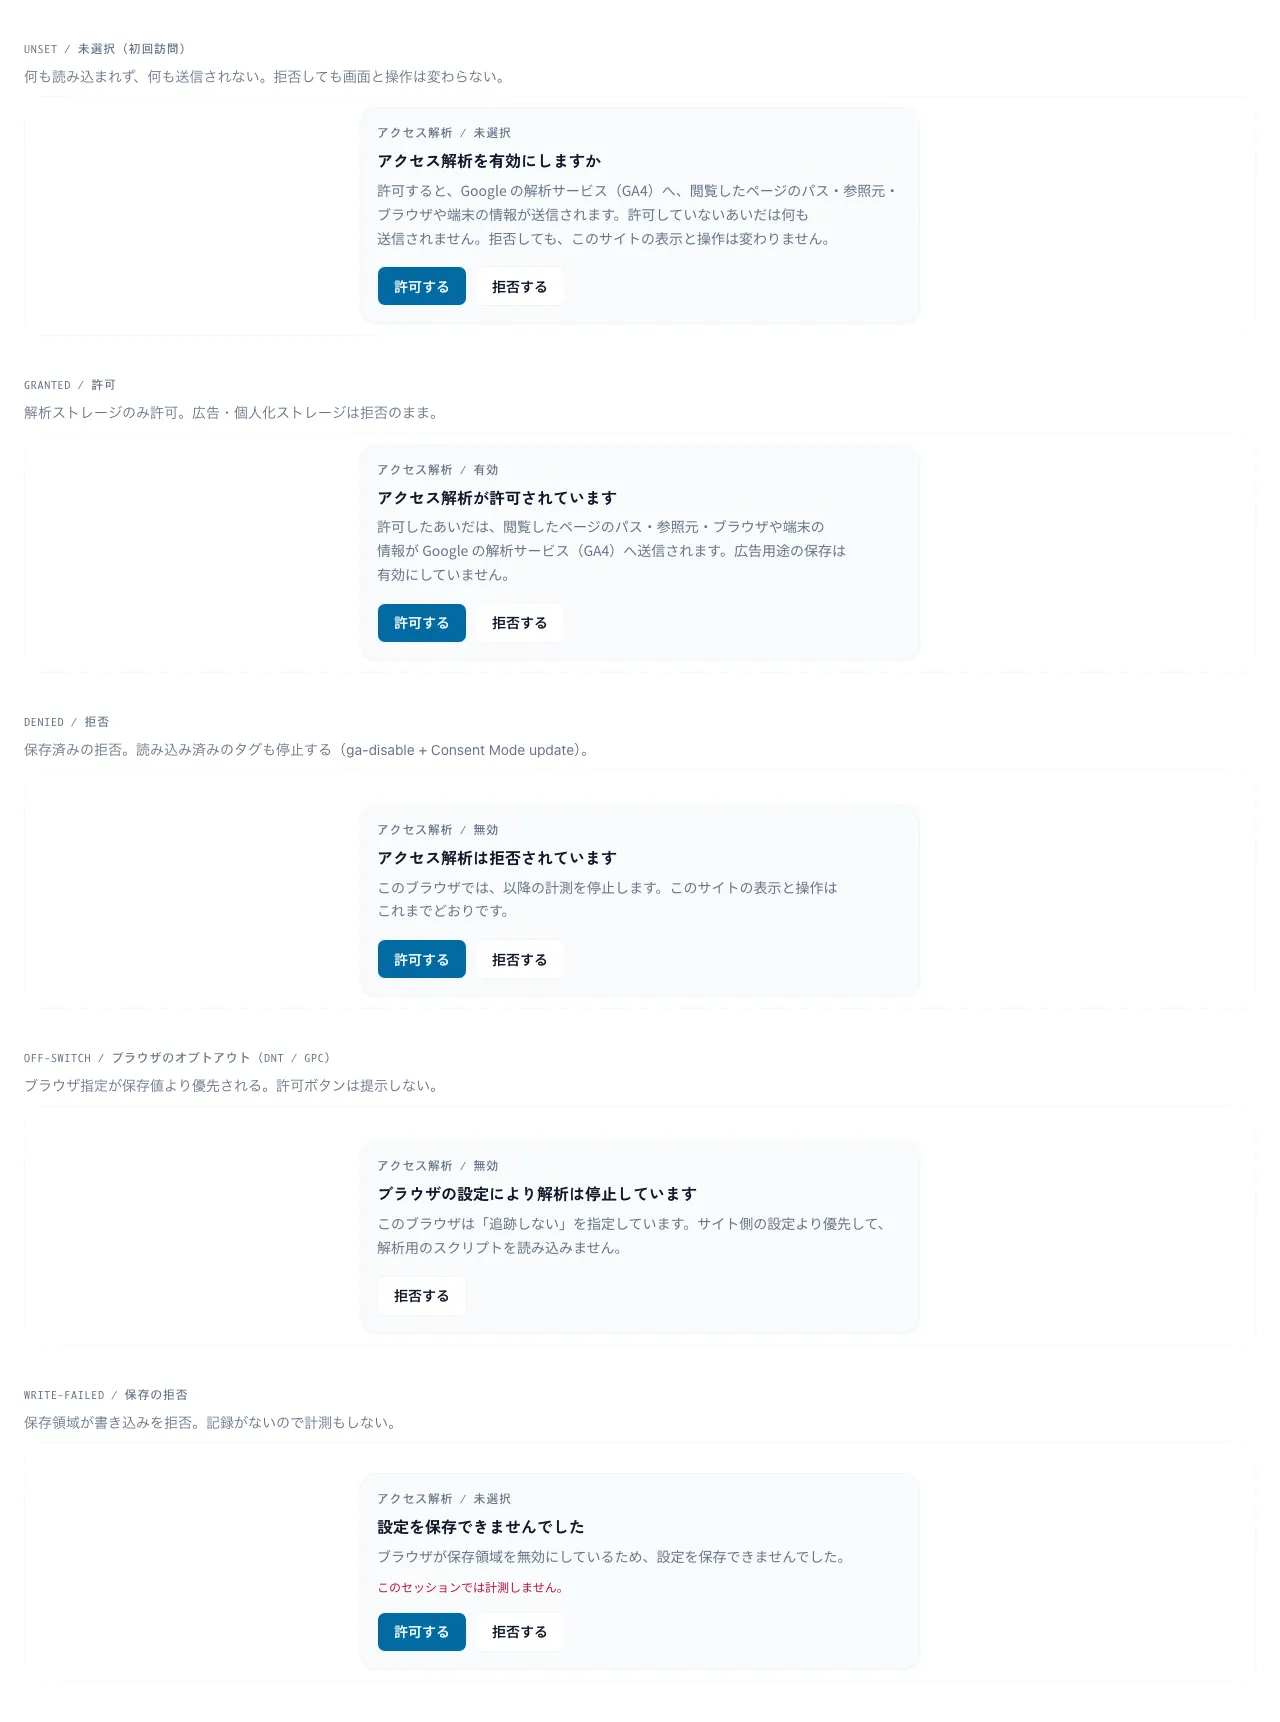
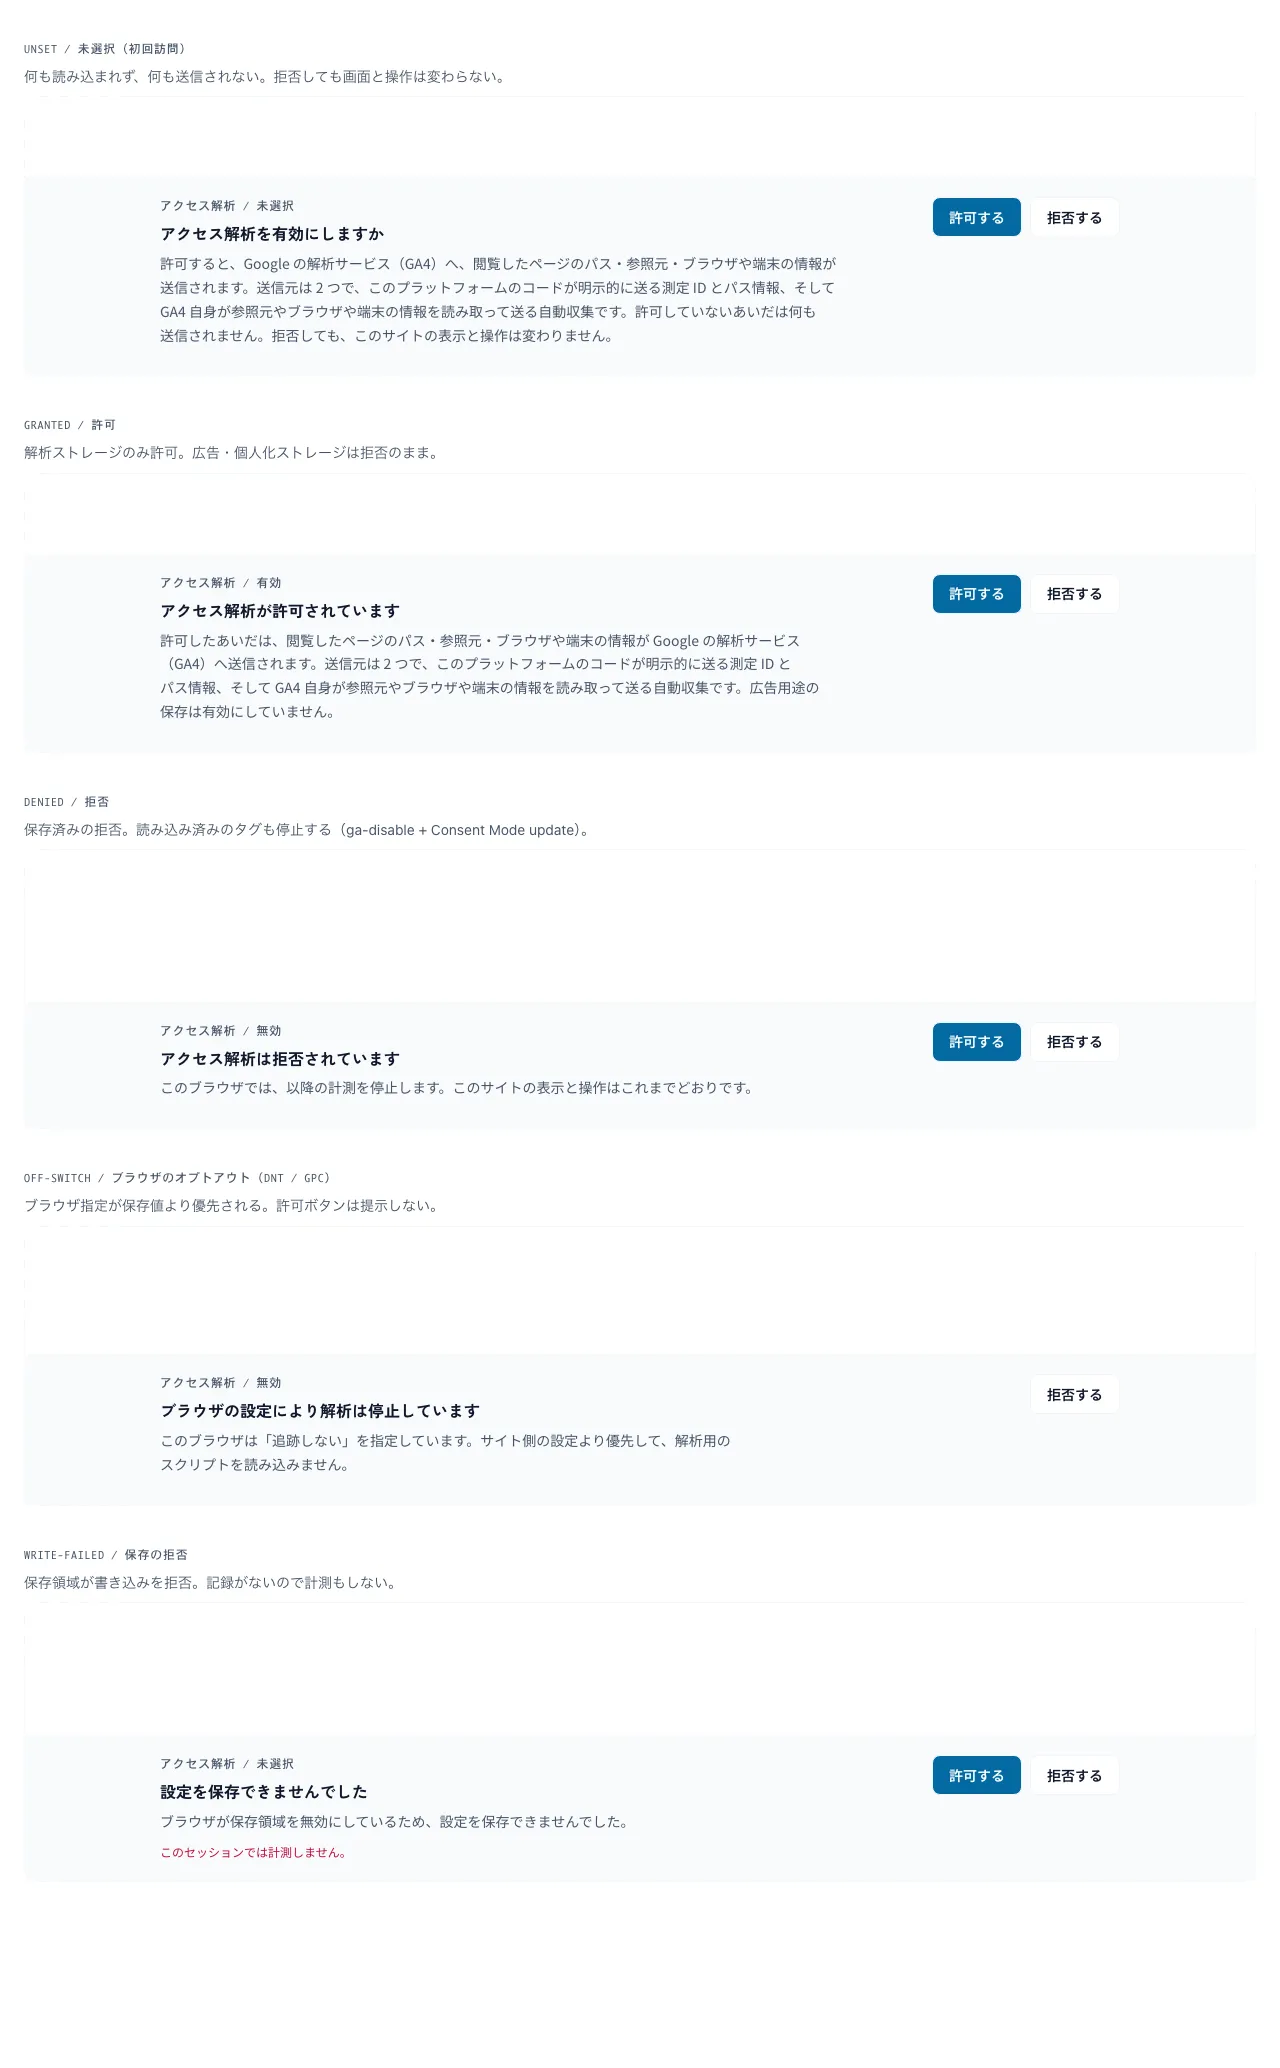
fix(editorial): render the analytics consent as a full-width band
Issue #783. The consent panel was a 560px card floating at the bottom
centre of the viewport. It is now a band across the page width, flush
with the bottom edge, with its inner content on the shared Container
grid (1024px, 16/24/32px inline padding) so it lines up with the page.

- No border, radius or shadow: a surface is told apart by its fill
  (owner decision, 2026-11-01).
- Only the placement and the width change. The recorded states, the
  two choices, the wording and the `aria-live` status region are the
  ones Issue #495 shipped.
- `useFocusOffset` takes the gap above the viewport edge, so the band
  publishes its own height (gap 0) while the collapsed pill keeps its
  12px gap; `--analytics-consent-offset` and the body reservation
  still follow the rendered surface (SC 2.4.11).
- The story gallery stage is 280px tall so every state of the wider
  band is captured without overflow, and the committed verification
  artefact is regenerated from the same story.

Measured at 1440x900 and 390x844, light and dark: band 198px / 22% of
the desktop viewport, 341px / 40% on mobile, offset equal to the band
height in every state.

diff --git a/src/editorial/analytics/AnalyticsConsent.tsx b/src/editorial/analytics/AnalyticsConsent.tsx
@@ -66,6 +66,7 @@
 
 import { useCallback, useEffect, useState } from 'react';
 import { css } from '../../../styled-system/css';
+import { Container } from '../primitives/Container';
 import {
 	GoogleAnalytics,
 	GoogleAnalyticsRouteTracker,
@@ -111,16 +112,19 @@ const FOCUS_OFFSET_PROPERTY = '--analytics-consent-offset';
  * The measurement is re-published when the surface is resized, so a
  * surface whose content changes height (a longer answer, a wrapped
  * label) keeps the compensation honest.
+ *
+ * `gapPx` is the distance between the surface and the viewport edge:
+ * the band sits flush against the bottom (0), while the collapsed
+ * status pill floats `bottom: 3` above it, so its own gap is part of
+ * the space it covers.
  */
-function useFocusOffset(element: HTMLElement | null) {
+function useFocusOffset(element: HTMLElement | null, gapPx: number) {
 	useEffect(() => {
 		if (!element) return;
 		const root = document.documentElement;
 		const publish = () => {
 			const { height } = element.getBoundingClientRect();
-			// `bottom: 3` is a 0.75rem gap above the viewport edge, so the
-			// space the surface occupies is that gap plus its own height.
-			root.style.setProperty(FOCUS_OFFSET_PROPERTY, `${Math.ceil(height + 12)}px`);
+			root.style.setProperty(FOCUS_OFFSET_PROPERTY, `${Math.ceil(height + gapPx)}px`);
 		};
 		publish();
 		if (typeof ResizeObserver === 'undefined') return;
@@ -130,7 +134,7 @@ function useFocusOffset(element: HTMLElement | null) {
 			observer.disconnect();
 			root.style.removeProperty(FOCUS_OFFSET_PROPERTY);
 		};
-	}, [element]);
+	}, [element, gapPx]);
 }
 
 /** Copy for the panel. Kept next to the markup so a wording change is one edit. */
@@ -187,6 +191,19 @@ export interface AnalyticsConsentPanelProps {
  * and screen-reader activation are native. When the browser off-switch
  * is on the grant button is replaced by an explanation — the copy
  * never offers an action the code would refuse to perform.
+ *
+ * A full-width band, not a floating card (Issue #783)
+ * ---------------------------------------------------
+ * The owner chose a band across the page width over a centred 560px
+ * card: it covers less of the viewport on desktop while keeping the
+ * same content. The band is flush with the bottom edge, carries no
+ * border, radius or shadow (a surface is told apart by its fill), and
+ * its inner content sits on the shared `Container` grid so it lines up
+ * with the page. Only the placement and the width change — the
+ * recorded states, the choices and the wording are the ones Issue #495
+ * shipped. On a narrow viewport the band stacks (text, then actions)
+ * and keeps its height rather than shrinking the text: the decision
+ * has to stay readable.
  */
 export function AnalyticsConsentPanel({
 	state,
@@ -197,10 +214,11 @@ export function AnalyticsConsentPanel({
 }: AnalyticsConsentPanelProps) {
 	const headingId = 'analytics-consent-heading';
 	const descriptionId = 'analytics-consent-description';
-	// The surface is measured so the document can reserve the space it
-	// occupies (Issue #395, SC 2.4.11).
+	// The band is measured so the document can reserve the space it
+	// occupies (Issue #395, SC 2.4.11), and it sits flush against the
+	// bottom of the viewport (Issue #783).
 	const [surface, setSurface] = useState<HTMLElement | null>(null);
-	useFocusOffset(surface);
+	useFocusOffset(surface, 0);
 	// A refused write outranks the recorded state: the browser does not
 	// hold the decision, so reporting "許可されています" here would be a
 	// claim about a state the visitor no longer has.
@@ -244,89 +262,120 @@ export function AnalyticsConsentPanel({
 			data-analytics-off-switch={offSwitch ?? 'none'}
 			className={css({
 				position: 'fixed',
-				insetInline: { base: '3', lg: '6' },
-				bottom: '3',
+				insetInline: 0,
+				bottom: 0,
 				zIndex: '20',
-				maxWidth: '560px',
-				marginInline: 'auto',
-				padding: '4',
-				borderRadius: 'lg',
-				borderWidth: '1px',
-				borderStyle: 'solid',
-				borderColor: 'border.subtle',
 				backgroundColor: 'bg.surface',
 				color: 'text.default',
-				boxShadow: 'sm',
 			})}
 		>
-			<p
+			<Container
 				className={css({
-					margin: '0',
-					fontFamily: 'mono',
-					fontSize: 'xs',
-					letterSpacing: '0.06em',
-					color: 'text.muted',
+					display: 'grid',
+					gridTemplateColumns: { base: 'minmax(0, 1fr)', lg: 'minmax(0, 1fr) auto' },
+					columnGap: '8',
+					rowGap: '4',
+					alignItems: 'start',
+					paddingBlock: { base: '4', lg: '5' },
 				})}
 			>
-				{ANALYTICS_CONSENT_COPY.eyebrow} / {statusLabel}
-			</p>
-			<h2
-				id={headingId}
-				className={css({
-					margin: '0',
-					marginBlockStart: '2',
-					fontFamily: 'heading',
-					fontSize: 'md',
-					fontWeight: '700',
-					lineHeight: '1.3',
-					color: 'text.default',
-				})}
-			>
-				{headline}
-			</h2>
-			<p
-				id={descriptionId}
-				className={css({
-					margin: '0',
-					marginBlockStart: '2',
-					fontFamily: 'sans',
-					fontSize: 'sm',
-					lineHeight: '1.7',
-					color: 'text.muted',
-				})}
-			>
-				{description}
-			</p>
-			{/* Status region: the decision and any storage failure are
-			    announced politely, and neither moves focus — a visitor who
-			    activated a button should keep their place in the page. */}
-			<p
-				aria-live="polite"
-				data-testid="analytics-consent-status"
-				className={css({
-					margin: '0',
-					marginBlockStart: '2',
-					fontFamily: 'sans',
-					fontSize: 'xs',
-					lineHeight: '1.6',
-					color: writeFailed ? 'accent.negative' : 'text.muted',
-				})}
-			>
-				{statusMessage}
-			</p>
-			<div
-				className={css({
-					marginBlockStart: '4',
-					display: 'flex',
-					flexWrap: 'wrap',
-					gap: '2',
-				})}
-			>
-				{offSwitch === null ? (
+				<div className={css({ maxWidth: { lg: '68ch' } })}>
+					<p
+						className={css({
+							margin: '0',
+							fontFamily: 'mono',
+							fontSize: 'xs',
+							letterSpacing: '0.06em',
+							color: 'text.muted',
+						})}
+					>
+						{ANALYTICS_CONSENT_COPY.eyebrow} / {statusLabel}
+					</p>
+					<h2
+						id={headingId}
+						className={css({
+							margin: '0',
+							marginBlockStart: '2',
+							fontFamily: 'heading',
+							fontSize: 'md',
+							fontWeight: '700',
+							lineHeight: '1.3',
+							color: 'text.default',
+						})}
+					>
+						{headline}
+					</h2>
+					<p
+						id={descriptionId}
+						className={css({
+							margin: '0',
+							marginBlockStart: '2',
+							fontFamily: 'sans',
+							fontSize: 'sm',
+							lineHeight: '1.7',
+							color: 'text.muted',
+						})}
+					>
+						{description}
+					</p>
+					{/* Status region: the decision and any storage failure are
+					    announced politely, and neither moves focus — a visitor who
+					    activated a button should keep their place in the page. */}
+					<p
+						aria-live="polite"
+						data-testid="analytics-consent-status"
+						className={css({
+							margin: '0',
+							marginBlockStart: '2',
+							fontFamily: 'sans',
+							fontSize: 'xs',
+							lineHeight: '1.6',
+							color: writeFailed ? 'accent.negative' : 'text.muted',
+						})}
+					>
+						{statusMessage}
+					</p>
+				</div>
+				<div
+					className={css({
+						display: 'flex',
+						flexWrap: 'wrap',
+						gap: '2',
+						alignItems: 'center',
+						justifySelf: { base: 'start', lg: 'end' },
+					})}
+				>
+					{offSwitch === null ? (
+						<button
+							type="button"
+							onClick={() => onDecide('granted')}
+							data-testid="analytics-consent-grant"
+							className={css({
+								minHeight: '10',
+								paddingInline: '4',
+								borderRadius: 'md',
+								borderWidth: '1px',
+								borderStyle: 'solid',
+								borderColor: 'border.subtle',
+								backgroundColor: 'bg.accent',
+								color: 'text.inverse',
+								fontFamily: 'sans',
+								fontSize: 'sm',
+								fontWeight: '600',
+								cursor: 'pointer',
+								_focusVisible: {
+									outline: '2px solid {colors.border.focus}',
+									outlineOffset: '2px',
+								},
+							})}
+						>
+							{ANALYTICS_CONSENT_COPY.grantLabel}
+						</button>
+					) : null}
 					<button
 						type="button"
-						onClick={() => onDecide('granted')}
-						data-testid="analytics-consent-grant"
+						onClick={() => onDecide('denied')}
+						data-testid="analytics-consent-deny"
 						className={css({
 							minHeight: '10',
 							paddingInline: '4',
@@ -334,8 +383,8 @@ export function AnalyticsConsentPanel({
 							borderWidth: '1px',
 							borderStyle: 'solid',
 							borderColor: 'border.subtle',
-							backgroundColor: 'bg.accent',
-							color: 'text.inverse',
+							backgroundColor: 'bg.canvas',
+							color: 'text.default',
 							fontFamily: 'sans',
 							fontSize: 'sm',
 							fontWeight: '600',
@@ -346,35 +395,10 @@ export function AnalyticsConsentPanel({
 							},
 						})}
 					>
-						{ANALYTICS_CONSENT_COPY.grantLabel}
+						{ANALYTICS_CONSENT_COPY.denyLabel}
 					</button>
-				) : null}
-				<button
-					type="button"
-					onClick={() => onDecide('denied')}
-					data-testid="analytics-consent-deny"
-					className={css({
-						minHeight: '10',
-						paddingInline: '4',
-						borderRadius: 'md',
-						borderWidth: '1px',
-						borderStyle: 'solid',
-						borderColor: 'border.subtle',
-						backgroundColor: 'bg.canvas',
-						color: 'text.default',
-						fontFamily: 'sans',
-						fontSize: 'sm',
-						fontWeight: '600',
-						cursor: 'pointer',
-						_focusVisible: {
-							outline: '2px solid {colors.border.focus}',
-							outlineOffset: '2px',
-						},
-					})}
-				>
-					{ANALYTICS_CONSENT_COPY.denyLabel}
-				</button>
-			</div>
+				</div>
+			</Container>
 		</section>
 	);
 }
@@ -471,7 +495,8 @@ export function AnalyticsConsentControl() {
 	// The collapsed status control is a fixed overlay too, so it publishes
 	// its own height for the same compensation (Issue #395, SC 2.4.11).
 	const [surface, setSurface] = useState<HTMLElement | null>(null);
-	useFocusOffset(surface);
+	// `bottom: 3` is a 0.75rem gap above the viewport edge (12px).
+	useFocusOffset(surface, 12);
 
 	const decide = useCallback((decision: AnalyticsConsentDecision) => {
 		const written = writeAnalyticsConsent(decision);

diff --git a/src/editorial/analytics/AnalyticsConsent.stories.tsx b/src/editorial/analytics/AnalyticsConsent.stories.tsx
@@ -104,10 +104,15 @@ const noteClassName = css({
 /**
  * The containing block for one fixed panel, so the gallery can show
  * every state at once instead of stacking them on the viewport bottom.
+ *
+ * The stage is tall enough for the tallest state as a full-width band
+ * (Issue #783): the band spans the stage instead of being a centred
+ * 560px card, so its own height follows the stage width and the
+ * longest description needs the room.
  */
 const stageClassName = css({
 	position: 'relative',
-	height: '240px',
+	height: '280px',
 	transform: 'translateZ(0)',
 	borderWidth: '1px',
 	borderStyle: 'dashed',
